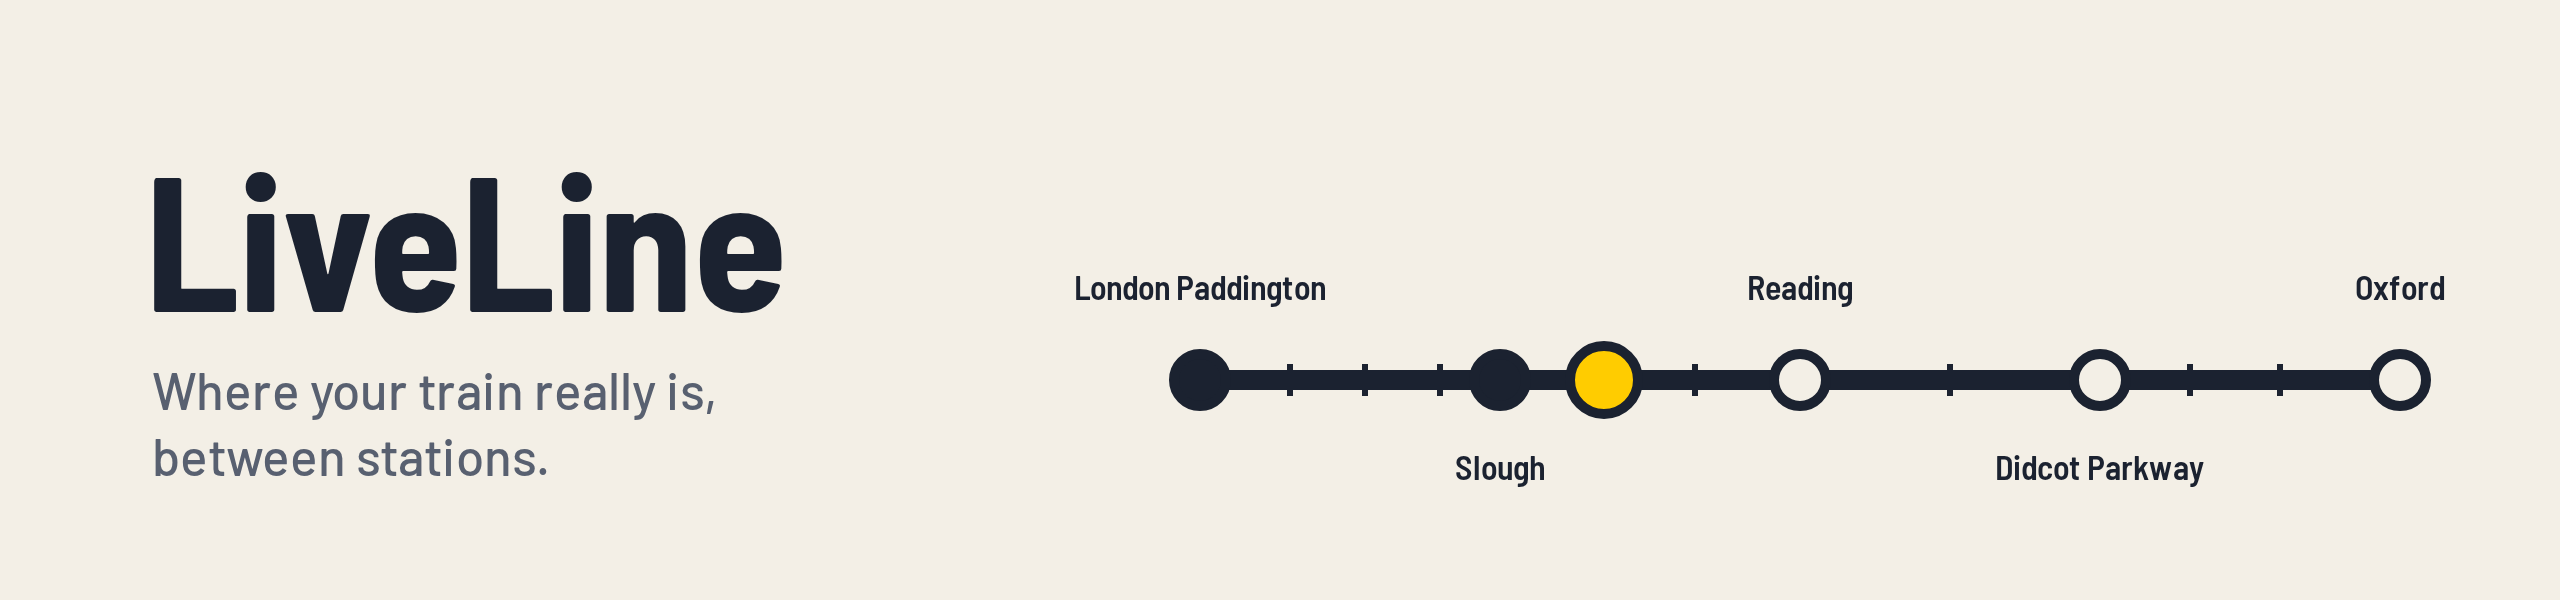
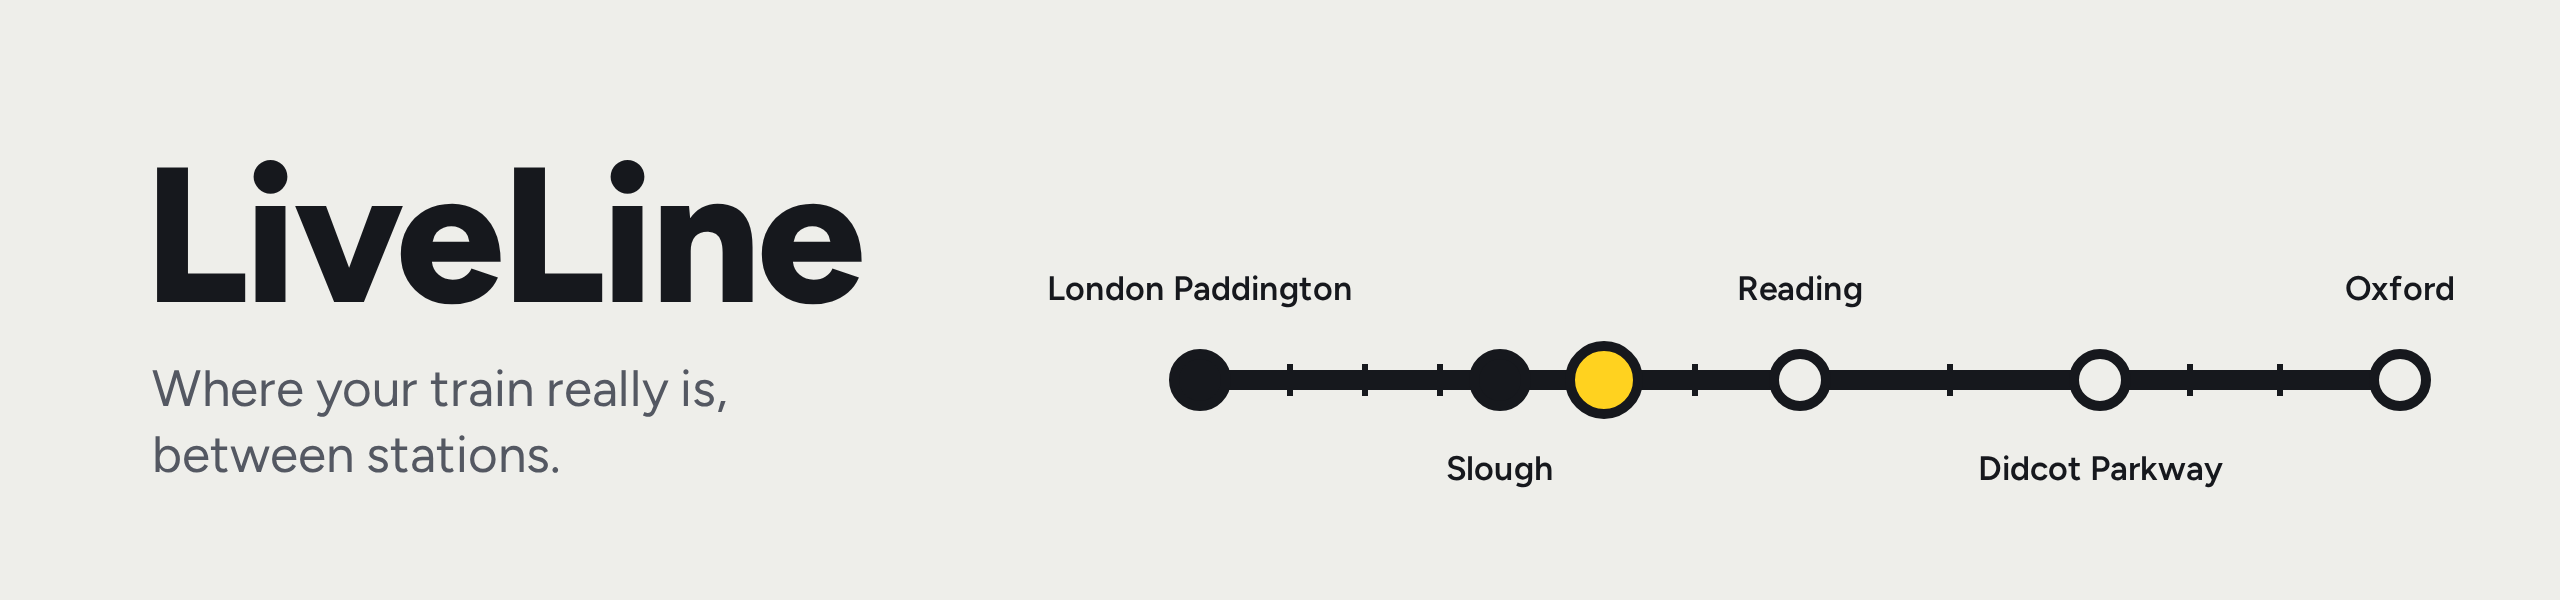
Docs: the themes, operator colours, and new README pictures

diff --git a/AGENTS.md b/AGENTS.md
@@ -32,10 +32,12 @@ src/
     app.ts       the router: a route name -> a Page class; draws it inside the chrome; problem pages
     pages/       one class per page (extends Page): load() data + markup, mount() wiring, dispose() timers
     views/       pure markup functions, data in, Html out (no DOM, no state)
-    components/  markup shared by views (chrome, search form, time marks, facility icons)
+    components/  markup shared by views (chrome, search form, time marks, facility icons, operator badges, a theme's
+                 miniature)
     widgets/     DOM behaviour as classes: shared by pages, or split out of one (station suggestions, passing-point
                  folds, tabs, the train page's announcer)
-    store/       everything kept on the device: Pref (one stored value), KEYS (every storage name), the lists
+    store/       everything kept on the device: Pref (one stored value), KEYS (every storage name), the lists,
+                 appearance (the theme and the train marker)
     updates.ts   the update check, banner and one-tap install
     live-train.ts  the train page while open: polling, folds, the sticky bar
     live-marker.ts the train marker and travelled line, placed every second against the rows as laid out
@@ -45,7 +47,8 @@ src/
     html.ts, routes.ts, format.ts   the escaping template, hash routes, text formatting
     focus.ts     keeping focus on the same control when markup is drawn again
   data/        bundled station list (ODbL, see its README)
-public/css/    CUBE layers; the only raw colours are in themes/platform.css
+public/css/    CUBE layers; the only raw colours are in themes/ (operator, swiss, quiet; operators.css; scene.css);
+               exception/ holds what each theme changes beyond its tokens
 android/       Capacitor's Android project (committed), including UpdaterPlugin.java (the install) and ApkDownload.java
                (fetching the APK and checking its SHA-256)
 test/          unit tests (*.test.ts), support.ts (shared doubles), fixtures/rtt/ (RTT recordings), fixtures/release/
@@ -116,8 +119,8 @@ scripts/       git-hooks/ (pre-commit, commit-msg, pre-push), commit.sh (npm run
   early train is coloured early, not "On time"), "On time" when it matches. With no live time it says "Timetable" until 2 minutes past booked
   (`NO_REPORT_AFTER`), then "No report"; a bus with none says nothing there (the row already says Bus). Arrivals
   say "from" before the origin. The platform plate carries hidden words ("Platform 5, not confirmed, changed"), not an
-  aria-label. The platform is a navy plate when confirmed, outlined when only expected; a changed platform adds a
-  yellow bar along the plate's foot (either kind) and "Platform changed" in the row's details. The summary line under
+  aria-label. The platform is a solid plate when confirmed, outlined when only expected; a changed platform adds a
+  bar in the train's colour along the plate's foot (either kind) and "Platform changed" in the row's details. The summary line under
   the nameboard ("Departures calling at Oxford · 10:00 to 11:00") links to the search form filled in with this board's
   query, and Back from a board you searched for returns to the form as you filled it. Its controls are few and plain:
   Earlier, Later and the other direction as words, Refresh as an icon, and a star on the nameboard to save a journey.
@@ -227,12 +230,14 @@ one line of facts; class and units are in the Train view. Explanations (an outli
   its `h1`; the same page drawn again, a train poll or a board refresh puts focus back on the same control (by id,
   name, `data-*` or href). The skip link focuses `main` rather than following `#main`.
 - **Settings:** the key folds to one line once it works and opens itself with no key or a problem. Appearance holds
-  the train marker (Dot default, Bar, Arrow, Train front). About is the last group. Top bar: Search, Recent, and a cog
+  the theme (a miniature of each, the choice applied at once without drawing the page again) and the train marker
+  (Dot default, Bar, Arrow, Train front). About is the last group. Top bar: Search, Recent, and a cog
   for Settings (named "Settings" for screen readers).
 - **Android shell** (`platform/index.ts`, started in `main.ts`): Back goes to the previous page, and from the first
-  page leaves the app (minimised, as other apps do), which also lets predictive back work. The status bar has light
-  icons in both themes, over a fixed navy strip its height (`body::before`, in `--sign`) that stays whatever the page is
-  scrolled to; the gesture bar follows the system theme, including a day/night switch while the app is open. The CSS reads the status bar's height once, as `--inset-top`
+  page leaves the app (minimised, as other apps do), which also lets predictive back work. Both system bars
+  follow the phone's theme, including a day/night switch while the app is open: under the status bar is a fixed strip
+  its height in the top bar's colour (`body::before`, in `--bar`), whatever the page is scrolled to, and every theme's
+  top bar is light by day and dark at night. Before the page draws, the window is the default theme's page colour. The CSS reads the status bar's height once, as `--inset-top`
   (`test/design.test.ts`), so the browser tests stand in for a phone by setting it.
 - **Tiers** come from entitlements and reported limits: `allowDetailed` = Hobbyist features, a full-allocation
   entitlement or over 100 an hour = Team or above, nothing = Free.
@@ -252,16 +257,29 @@ one line of facts; class and units are in the Train view. Explanations (an outli
 
 ## UI
 
-The "Platform" look, from British rail signage: warm paper and navy ink (deep navy at night), Barlow and Barlow Semi
-Condensed, navy sign plates for platforms, a thick Beck-style line with ringed stops, the train as a yellow marker with
-an ink edge, one giant "N min" number. No cards, boxes, glow, gradients or pills: hierarchy comes from type. Two
-deliberate exceptions, so each page is known at a glance: a board's station name is a navy nameboard, and Settings
-groups its rows in panels, like a phone's settings. CUBE
+Three themes, picked in Settings > Appearance from a miniature of each (`components/theme-preview.ts`), each with a
+light and a dark set that follow the phone (owner, 2026-11-08; mock-ups in `notes/prototypes/overhaul`):
+- **Operator colour** (`operator`, the default): a grey page, white panels with round corners (board rows, the
+  train's status and route, journeys), Figtree, a yellow main button and train. Each board row has its operator's
+  badge in place of its name (the name stays for screen readers), and a train page's header wears its operator's
+  colour. Badges and colours: `components/operators.ts` (the operators' real short forms, or the brand as written;
+  LM split into LNR and WMR by name; no badge rather than a guess) and `themes/operators.css` (Wikipedia's National
+  Rail colours, TfL's for the Elizabeth line; white or black text, whichever reads; `test/operators.test.ts`).
+- **Swiss timetable** (`swiss`): white, black and one red, square corners, Inter Tight, rules instead of boxes, the
+  station name huge and heavy.
+- **Quiet** (`quiet`): soft paper, Atkinson Hyperlegible Next, a thin line, light figures and one big thin number.
+
+All three keep the same pages, content and layout: a theme changes colour, type, shapes and spacing only. Each is
+tokens on its own `[data-theme]` (`themes/*.css`, not `:root`, so a miniature in Settings can wear it), set on `<html>`
+by `store/appearance.ts` (`liveline.theme`); what a theme changes beyond tokens is in `exception/<theme>.css`, under
+`:root[data-theme]`, so the miniatures never pick it up. Every theme shares a thick line with ringed stops, the train
+as a marker with an edge, one giant "N min" number, and sign plates for platforms. CUBE
 layers `tokens, base, composition, block, utility, exception`; themes are token-only files. Phone first (412 px and
 360 px), 44 px touch targets (links inside sentences excepted; a link that is a whole line is a control and isn't), edge to edge with `env(safe-area-inset-*)`. A new
 page opens at the top; redrawing the same page keeps its place. Every text
-colour is at least 4.5:1 on what it sits on, in both themes, and the train marker 3:1 (`test/design.test.ts`, which
-also works out the cascade for the board's platform plate). Text grows with the phone's text size: content sets
+colour is at least 4.5:1 on what it sits on, in every theme, light and dark, and the train marker 3:1
+(`test/design.test.ts`, which also works out the cascade for the board's platform plate); `test/ui/themes.spec.ts`
+lays out every main page in each theme. Text grows with the phone's text size: content sets
 heights and text wraps rather than ending in "…". Where a row can't fit at large text, container queries (whose rem
 follows the root text size, unlike a media query's) stack it: board rows and route times go under the name, and the
 top bar's nav takes a line of its own. Checked at 200%: the board, the Route tab, the Train view and the train bar.

diff --git a/README.md b/README.md
@@ -58,7 +58,7 @@ your own free key. There's no server and no account, and without a key it runs a
 | **Your journeys** | Save a commute once, then it's one tap, and **Return** gives the way home. Recent trains, and "Carry on" for one still running |
 | **Gentle on your allowance** | Every call is counted, cached and paced to fit Realtime Trains' free 100 an hour |
 | **Updates itself** | One tap downloads the next release, checks it and installs it over this one, keeping your key and journeys |
-| **Light and dark** | Warm paper by day, deep navy at night, styled after British station signs |
+| **Three themes, light and dark** | **Operator colour** (each train in its operator's colours, the default), **Swiss timetable** or **Quiet**, picked in Settings from a picture of each. All follow your phone's light or dark setting |
 
 ## Install
 
@@ -146,6 +146,10 @@ use a simulator and recordings of real Realtime Trains answers, and the browser 
 - Train data: [Realtime Trains](https://www.realtimetrains.co.uk/). LiveLine isn't affiliated with them.
 - Station list: [uk-railway-stations](https://github.com/davwheat/uk-railway-stations) by David Wheatley, from
   [Trainline EU](https://github.com/trainline-eu/stations), under the ODbL.
-- Typefaces: Barlow and Barlow Semi Condensed by Jeremy Tribby, under the
-  [SIL Open Font License](public/fonts/OFL-barlow.txt).
+- Typefaces, all under the SIL Open Font License: [Figtree](public/fonts/OFL-figtree.txt) by Erik Kennedy,
+  [Inter Tight](public/fonts/OFL-inter-tight.txt) by Rasmus Andersson, and
+  [Atkinson Hyperlegible Next](public/fonts/OFL-atkinson-hyperlegible-next.txt) by the Braille Institute.
+- Operator colours: Wikipedia's [National Rail colours](https://en.wikipedia.org/wiki/Template:National_Rail_colour),
+  and the Elizabeth line's from TfL's own design idiom. Operator names and colours identify the trains; LiveLine isn't
+  connected with any operator.
 - [MIT licence](LICENSE).
